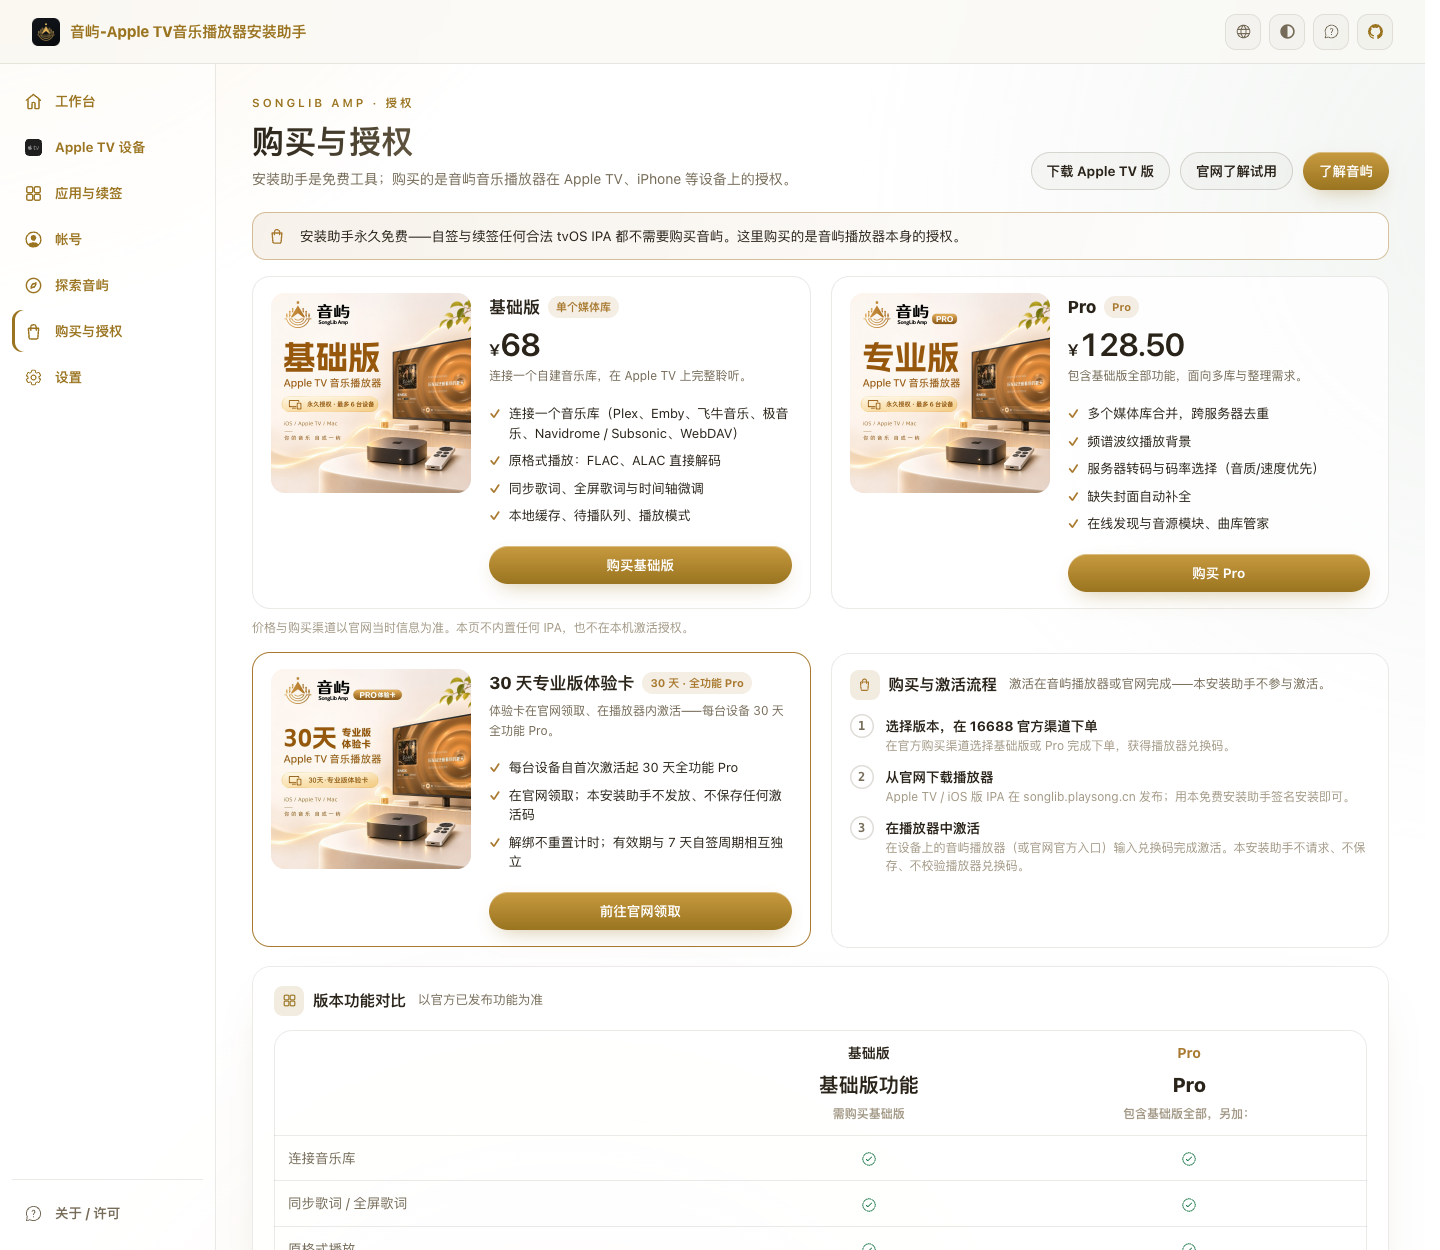
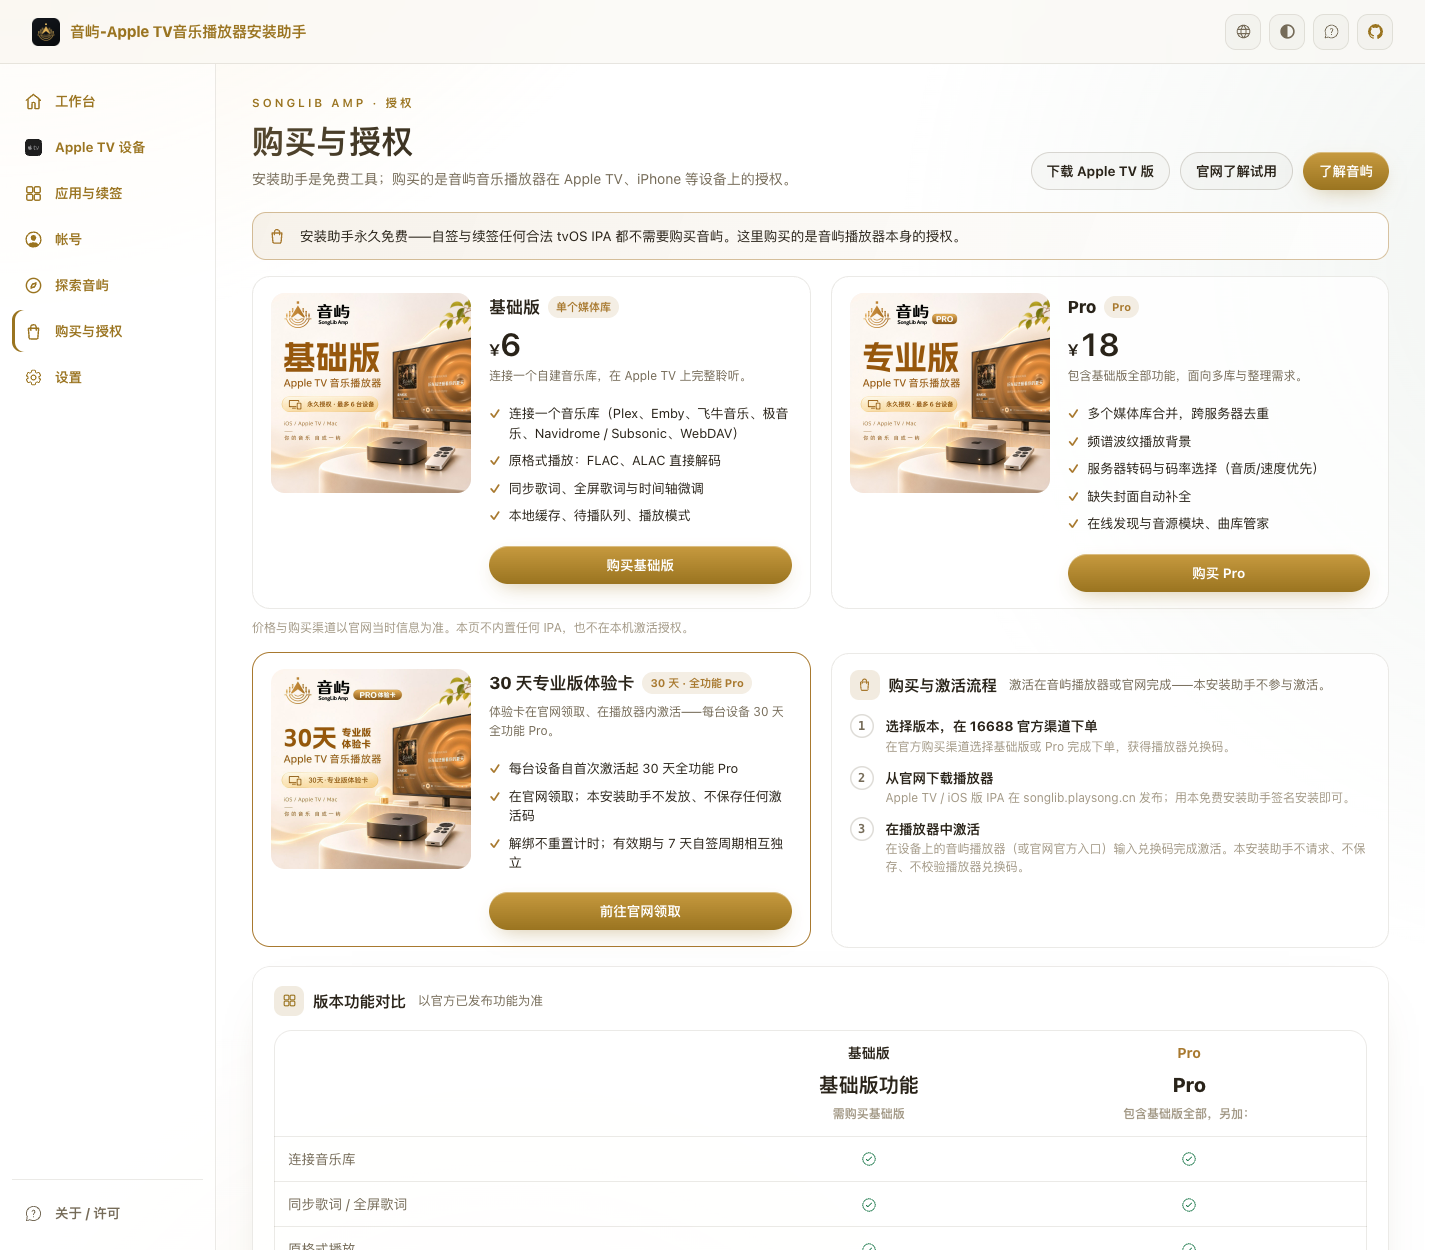
docs(purchase): refresh acceptance shots with the real store prices
The previous screenshots carried invented amounts (68 / 128.50). The stub now
publishes the prices the official site actually sells at (600 / 1800 cents) so
the captures match production copy. Also records the measured fact that both
sales-config endpoints are 404 today: in a real deployment the page shows no
price and an unopened trial, not the stubbed state.

diff --git a/docs/preview/purchase-20261104/README.md b/docs/preview/purchase-20261104/README.md
@@ -6,9 +6,11 @@
 
 - 服务：`go build` 本地二进制 + `-ldflags -X ...web.salesConfigURL=http://127.0.0.1:5610/api/v1/sales-config`，销售配置指向本地桩服务，**未连接真实官网/16688**。
 - 登录：隔离数据目录 `/tmp` 下的测试密码，未使用任何真实凭证。
-- 开放态（01–03、05）：桩返回 `trial.open=true` 与商品价 `basic=6800`、`pro=12850`（分）。
+- 开放态（01–03、05）：桩返回 `trial.open=true` 与商品价 `basic=600`、`pro=1800`（分），取自官网在售的 ¥6 / ¥18；桩只是本地替身，不代表线上接口已部署。
 - 未开放态（04）：桩返回空 `plans`、`trial.open=false`，模拟真实后端的默认状态。
 - 主题：01–04 浅色，05 深色。
+
+> **线上现状（2026-11-04 实测）**：`https://songlib.playsong.cn/api/v1/sales-config`、`https://license.playsong.cn/v1/sales-config` 均返回 404。真实部署里 `/songlib/config` 拿不到价格、核验链接与体验状态，购买页会显示商品页按钮但不显示价格、体验卡显示「暂未开放」。截图里的价格与可领取状态是桩数据，不能当作线上行为。
 
 ## 文件
 

diff --git a/docs/DEVELOPMENT_CHECKPOINT_20261104.md b/docs/DEVELOPMENT_CHECKPOINT_20261104.md
@@ -27,7 +27,7 @@
 
 | 视口 | 结果 |
 | --- | --- |
-| 1440 | 四卡 559×295 两两对齐，商品图 200×200，价格 ¥68 / ¥128.50 正常 |
+| 1440 | 四卡 559×295 两两对齐，商品图 200×200，价格 ¥6 / ¥18（桩数据取自官网在售价） |
 | 1024 | 卡宽 368，图 148，同排等高（428/428、373/373），无单字列 |
 | 768 | 单列，图仍左侧 200，不再被拉成 3:1 横条裁掉海报标题 |
 | 390 / 360 | 单列，图 4:3 横幅，海报标题与播放器完整；无横向溢出（scrollWidth = 360） |
